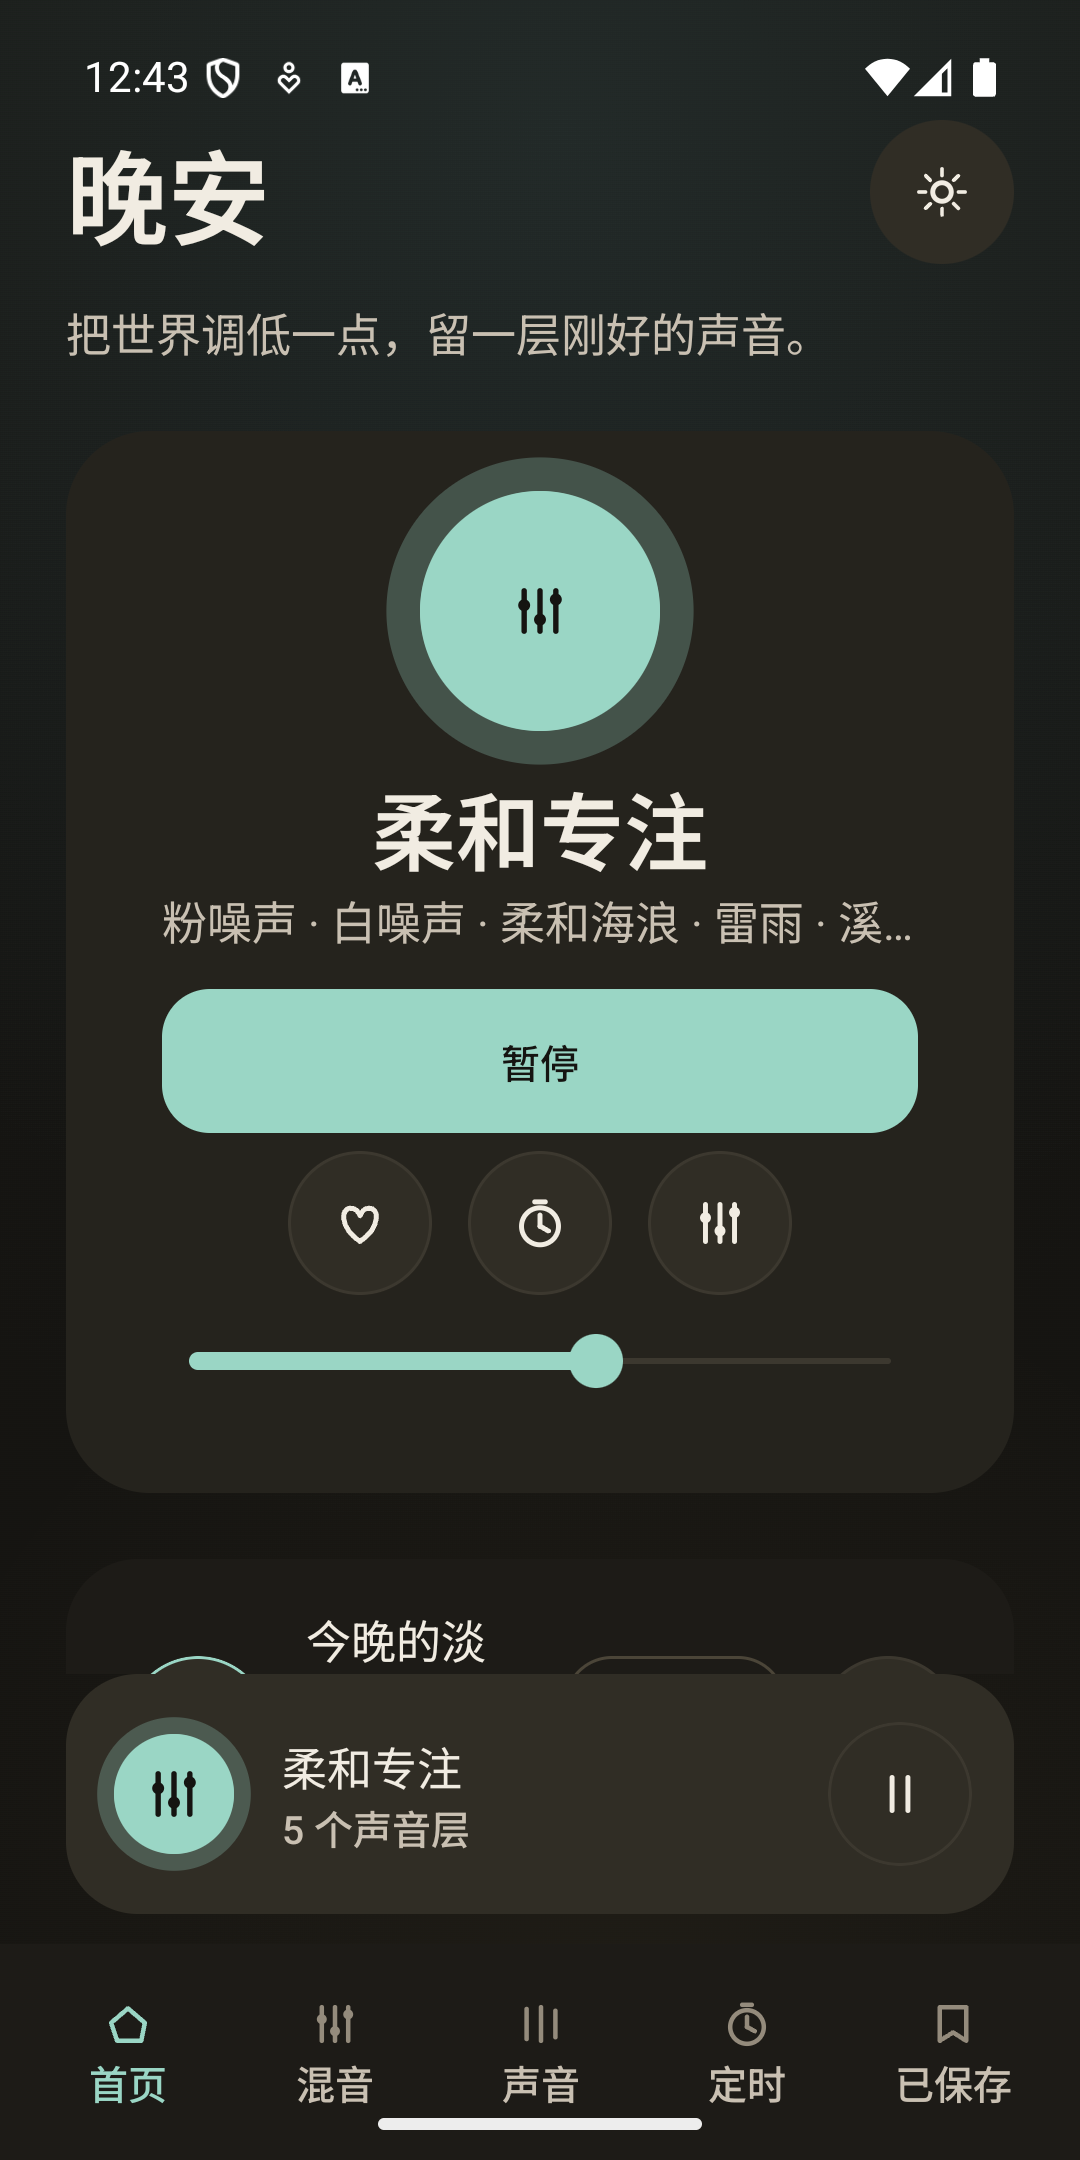
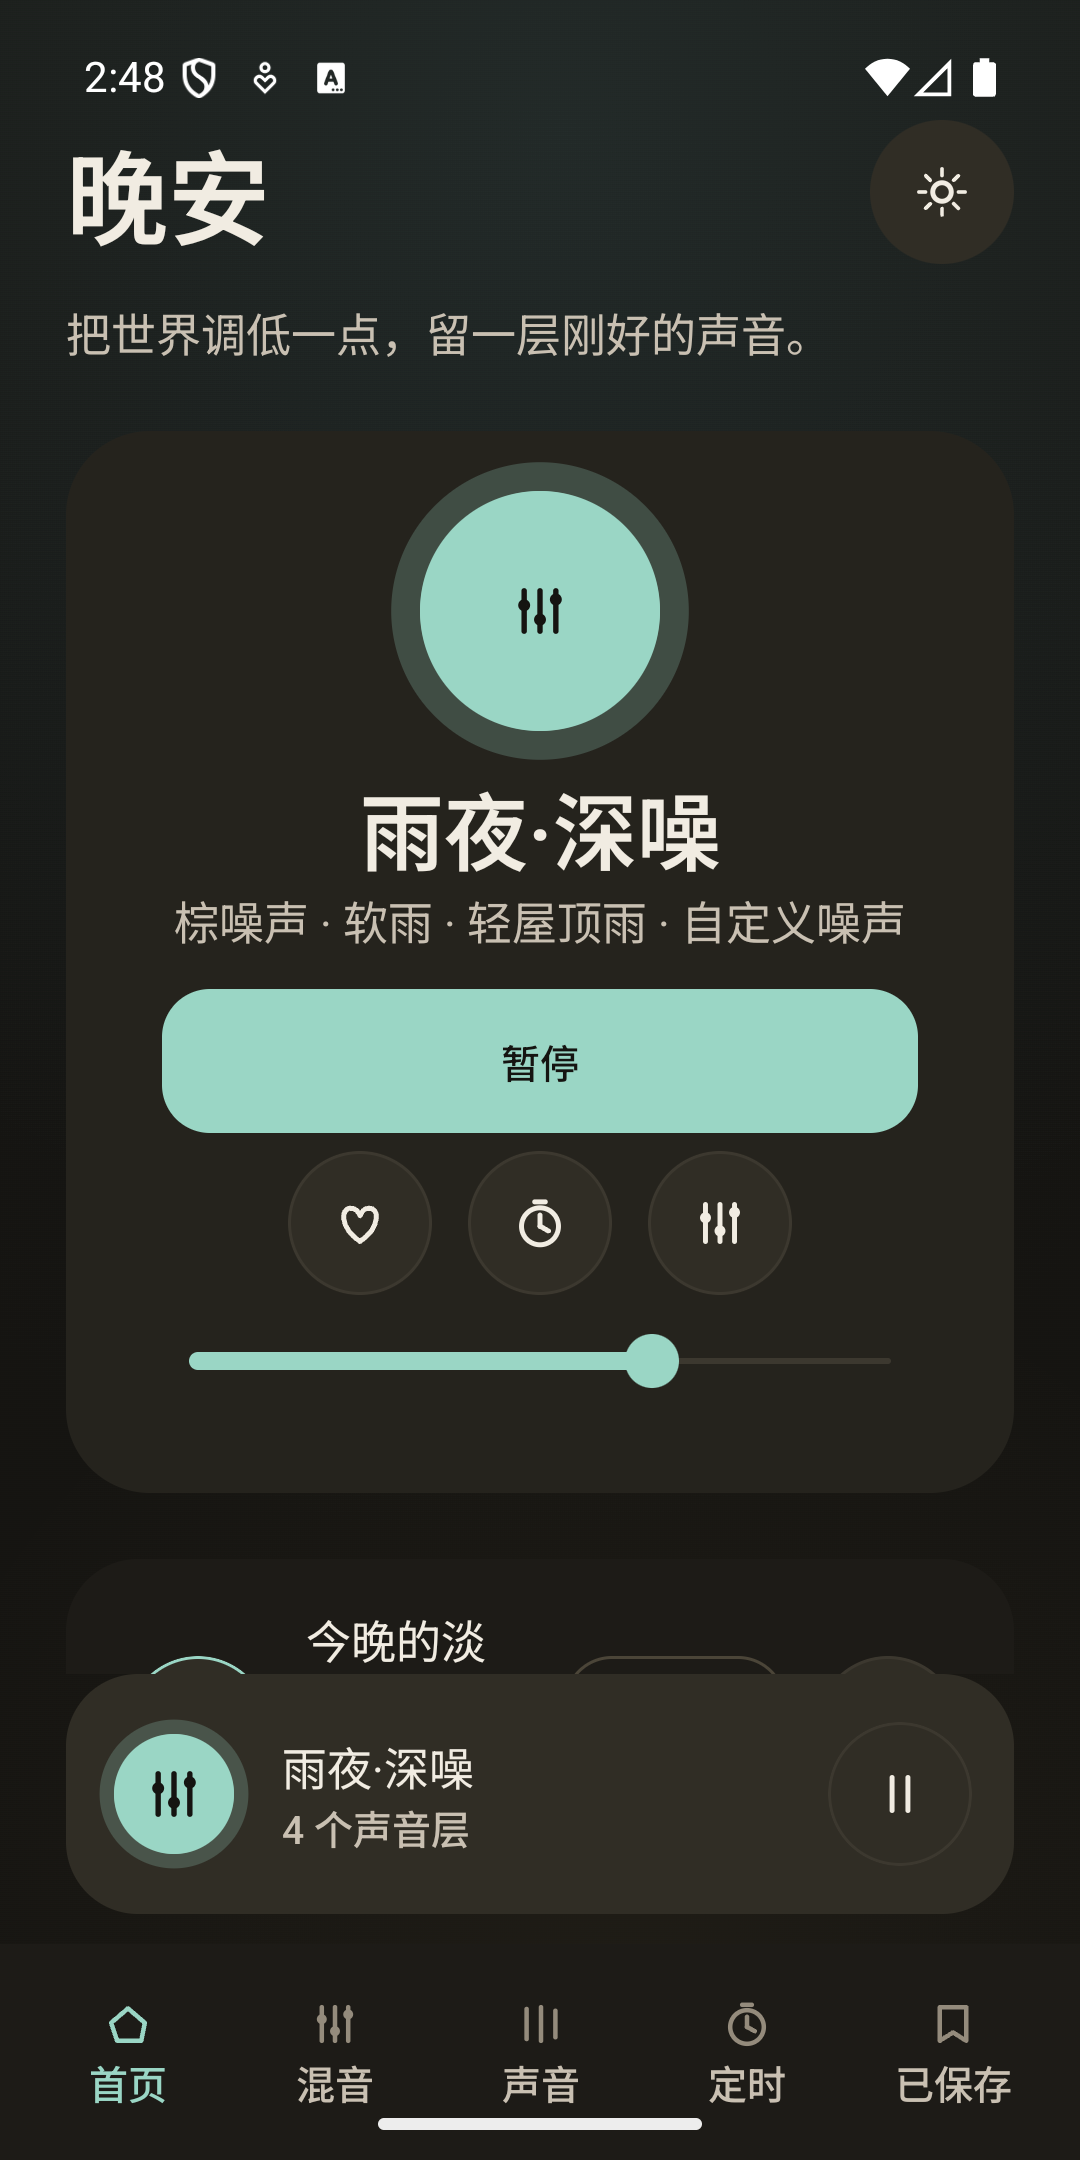
chore(add-sound-discovery-pack): 4.1 全量验证 + RC 更新 + 商店截图刷新
check 全绿;模拟器实操三功能全部出声;AAB 重建验签,
RC 记录与首页/声音库商店截图同步新功能。

diff --git a/docs/release-readiness/release-candidate-2026-06-10.md b/docs/release-readiness/release-candidate-2026-06-10.md
@@ -4,7 +4,7 @@
 
 - versionCode 1 / versionName 0.2.0(targetSdk 36 / minSdk 26)
 - AAB:`composeApp/build/outputs/bundle/release/composeApp-release.aab`
[2 lines of base64/hex data omitted]
   - `jarsigner -verify` 通过;upload key CN=WhiteNoisePro Upload,证书有效期至 2053,
     SHA-256 指纹 `6278bb97…c06385`
 - `:composeApp:check`(含归档验收门禁)全绿
@@ -15,6 +15,8 @@
 - 声音目录 8 → 21:18 个 CC0 真实素材(全许可证快照取证)+ 3 个运行时合成噪声;
   新增「环境」分类与 6 个新品类图标
 - 一方合成 WAV 移除,旧 soundId 解码迁移;AAB 较改造前缩小约 7MB
+- 声音发现包(add-sound-discovery-pack):场景预设一键播放 ×6、混音骰子、
+  噪声实验室(0~-6 dB/oct 自定义音色,设备端合成)
 - 隐私政策已发布:https://chillcat0401.github.io/whitenoisepro/privacy-policy.html(HTTP 200)
 
 ## 验证记录

diff --git a/docs/superpowers/evidence/add-sound-discovery-pack/4.1.md b/docs/superpowers/evidence/add-sound-discovery-pack/4.1.md
@@ -1,0 +1,7 @@
+任务 4.1 全量门禁 + 模拟器验证
+- verify: ./gradlew :composeApp:check :composeApp:assembleDebug → BUILD SUCCESSFUL
+- 模拟器实操:预设「雨夜列车」一键播放(列车·屋顶雨·雷雨);骰子生成
+  「雨夜·深噪」自动命名播放;噪声实验室拖至 -5.6dB/oct 加入混音,
+  设备端生成 noise_custom_t56_loop_v1.wav 并随混音发声
+- release AAB 重建并验签:sha256 1295c6907f927a3ddc2366a1a0e2622e05af9cbae659108b9ad771017acde761
+- 日期: 2026-06-10

diff --git a/openspec/changes/add-sound-discovery-pack/tasks.md b/openspec/changes/add-sound-discovery-pack/tasks.md
@@ -40,7 +40,7 @@
   - verify: ./gradlew :composeApp:testDebugUnitTest
   - scope: composeApp/src/commonMain/kotlin/com/whitenoisepro/{app,design}/
 
-- [ ] 4.1 全量门禁 + 模拟器验证(三功能实操 + 截图)
+- [x] 4.1 全量门禁 + 模拟器验证(三功能实操 + 截图)
   - accept: check 全绿;模拟器上预设/骰子/实验室全部出声
   - verify: ./gradlew :composeApp:check :composeApp:assembleDebug
   - scope: 全仓(只读验证)
